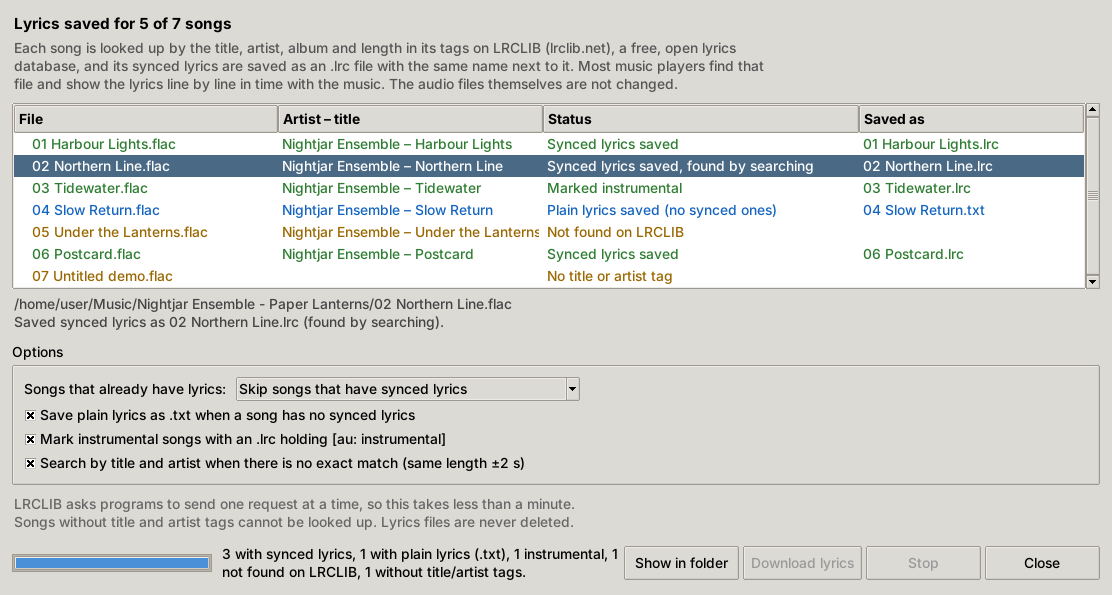
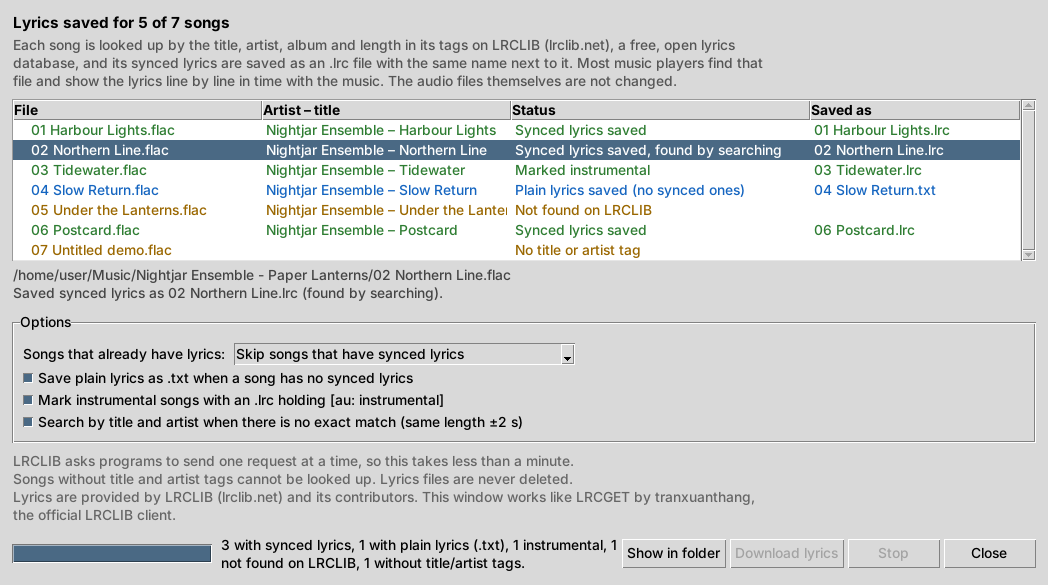
Credit LRCLIB and LRCGET for the lyrics feature
The lyrics come from LRCLIB and its contributors, and the feature follows
LRCGET's conventions. Both are by tranxuanthang under the MIT License
(LRCGET "Copyright (c) 2023 tranxuanthang", the LRCLIB server "Copyright (c)
2024 tranxuanthang", as their LICENSE files say). They are now credited:

- in both apps: the last line of the lyrics window's note (lyrics.CREDIT)
  and Help > About (lyrics.ABOUT_CREDIT), with the same texts in the Rust
  version;
- in a Credits section of the README inside every package (Python and
  Rust), the README's Acknowledgements and the 1.12.0 release notes;
- in the headers of realhires/lyrics.py and rust/crates/core/src/lyrics.rs,
  which also say that the code is our own and contains none of theirs.

test_lrclib_and_lrcget_are_credited keeps all of these in place and the
Rust texts equal to the Python ones. docs/gui-lyrics.png shows the new line.

Claude-Session: https://claude.ai/code/session_013PCXirMy853Swzuii5oTRZ

Changed region(s): [[0.0, 0.0308, 1.0, 0.8923], [0.0, 0.8923, 1.0, 0.9846]]

diff --git a/tests/test_lyrics.py b/tests/test_lyrics.py
@@ -3,6 +3,7 @@
 import json
 import os
 import random
+import re
 import shutil
 import ssl
 import subprocess
@@ -294,6 +295,33 @@ def test_skip_rules(tmp_path):
     cfg.lyrics_existing = lyrics.EXISTING_CLI["replace"]
     assert lyrics.skip_reason(str(song), cfg) == ""
     assert lyrics.read_lyrics_file(str(song))[0] == lyrics.INSTRUMENTAL
+
+
+def test_lrclib_and_lrcget_are_credited():
+    """The user asked for the lyrics code to be credited: LRCLIB and LRCGET (both MIT, by tranxuanthang)
+    are named in both apps (lyrics window, About box), the packaged READMEs, the README and the
+    release notes, and the Rust version shows the same texts."""
+    root = Path(__file__).resolve().parent.parent
+    for name in ("README.md", "packaging/README-RELEASE.txt", "packaging/README-RUST.txt"):
+        text = (root / name).read_text(encoding="utf-8")
+        for needed in ("lrclib.net", "github.com/tranxuanthang/lrcget", "Copyright (c) 2023 tranxuanthang",
+                       "Copyright (c) 2024 tranxuanthang", "MIT License"):
+            assert needed in text, f"{name} lacks {needed!r}"
+    notes = (root / "packaging" / "RELEASE_NOTES.md").read_text(encoding="utf-8")
+    assert "LRCGET by tranxuanthang" in notes and "MIT-licensed" in notes
+    assert "LRCLIB" in lyrics.CREDIT and "LRCGET by tranxuanthang" in lyrics.CREDIT
+    assert "LRCGET by tranxuanthang (MIT License)" in lyrics.ABOUT_CREDIT
+    rust = (root / "rust" / "crates" / "core" / "src" / "lyrics.rs").read_text(encoding="utf-8")
+
+    def rust_const(name):
+        m = re.search(r'pub const %s: &str = "((?:[^"\\]|\\.)*)";' % name, rust, re.S)
+        assert m, name
+        return re.sub(r"\\\n\s*", "", m.group(1))  # a backslash at a line end joins the lines
+
+    assert rust_const("CREDIT") == lyrics.CREDIT
+    assert rust_const("ABOUT_CREDIT") == lyrics.ABOUT_CREDIT
+    assert "CREDIT.into()" in (root / "rust" / "crates" / "gui" / "src" / "lyrics.rs").read_text(encoding="utf-8")
+    assert "ABOUT_CREDIT" in (root / "rust" / "crates" / "gui" / "src" / "app.rs").read_text(encoding="utf-8")
 
 
 # --------------------------------------------------------------------- GUI ---

diff --git a/rust/crates/core/src/lyrics.rs b/rust/crates/core/src/lyrics.rs
@@ -18,6 +18,15 @@
 //! Lyrics files are never deleted: an existing `.txt` stays when a synced
 //! `.lrc` is added next to it, and existing files are only overwritten when
 //! the user chose "Download again and replace them".
+//!
+//! Credits: the lyrics come from LRCLIB and its contributors, and this feature
+//! is modelled on LRCGET.  Both are by tranxuanthang and MIT-licensed (LRCGET:
+//! "Copyright (c) 2023 tranxuanthang", <https://github.com/tranxuanthang/lrcget>;
+//! the LRCLIB server: "Copyright (c) 2024 tranxuanthang",
+//! <https://github.com/tranxuanthang/lrclib>).  This module is a port of
+//! Real-Hi-Res's own `realhires/lyrics.py` and contains no code from either;
+//! it follows LRCGET's conventions and LRCLIB's published API.  [`CREDIT`] and
+//! [`ABOUT_CREDIT`] are shown in the desktop app.
 
 use std::collections::HashMap;
 use std::io::{Read, Write};
@@ -90,6 +99,13 @@ impl Status {
         matches!(self, Status::Synced | Status::Plain | Status::Instrumental)
     }
 }
+
+/// Shown in the lyrics window (the same text as the Python version's `CREDIT`).
+pub const CREDIT: &str = "Lyrics are provided by LRCLIB (lrclib.net) and its contributors. This window works like \
+                          LRCGET by tranxuanthang, the official LRCLIB client.";
+/// Shown in the About box (Python `ABOUT_CREDIT`).
+pub const ABOUT_CREDIT: &str = "Synced lyrics come from LRCLIB (lrclib.net) and its contributors. The lyrics feature \
+                                is modelled on LRCGET by tranxuanthang (MIT License), the official LRCLIB client.";
 
 pub const EXISTING_CHOICES: [&str; 3] =
     ["Skip songs that have synced lyrics", "Skip songs that have any lyrics", "Download again and replace them"];

diff --git a/realhires/lyrics.py b/realhires/lyrics.py
@@ -18,6 +18,15 @@ installed or bundled.
 Lyrics files are never deleted: an existing ``.txt`` stays when a synced
 ``.lrc`` is added next to it, and existing files are only overwritten when the
 user chose "Download again and replace them".
+
+Credits: the lyrics come from LRCLIB and its contributors, and this feature is
+modelled on LRCGET.  Both are by tranxuanthang and MIT-licensed (LRCGET:
+"Copyright (c) 2023 tranxuanthang", https://github.com/tranxuanthang/lrcget;
+the LRCLIB server: "Copyright (c) 2024 tranxuanthang",
+https://github.com/tranxuanthang/lrclib).  This module was written for
+Real-Hi-Res and contains no code from either; it follows LRCGET's conventions
+and LRCLIB's published API.  CREDIT and ABOUT_CREDIT are shown in the desktop
+app (the lyrics window and the About box).
 """
 
 from __future__ import annotations
@@ -68,6 +77,12 @@ STATUS_LABEL = {
     FAILED: "Failed",
 }
 SAVED_STATUSES = (SYNCED, PLAIN, INSTRUMENTAL)
+
+# Shown in the lyrics window and the About box (the Rust version shows the same texts).
+CREDIT = ("Lyrics are provided by LRCLIB (lrclib.net) and its contributors. This window works like LRCGET "
+          "by tranxuanthang, the official LRCLIB client.")
+ABOUT_CREDIT = ("Synced lyrics come from LRCLIB (lrclib.net) and its contributors. The lyrics feature is modelled "
+                "on LRCGET by tranxuanthang (MIT License), the official LRCLIB client.")
 
 EXISTING_CHOICES = ["Skip songs that have synced lyrics", "Skip songs that have any lyrics",
                     "Download again and replace them"]

diff --git a/realhires/gui.py b/realhires/gui.py
@@ -1119,6 +1119,7 @@ class LyricsDialog(tk.Toplevel):
                          f"{'is' if one else 'are'} skipped (listed last, in grey); choose 'Download again and "
                          "replace them' to look them up again.")
         lines.append("Songs without title and artist tags cannot be looked up. Lyrics files are never deleted.")
+        lines.append(lyrics_mod.CREDIT)
         self.note.configure(text="\n".join(lines))
         self.start_btn.configure(state="normal" if n else "disabled")
         self.pb.configure(maximum=max(n, 1), value=0)
@@ -2946,6 +2947,7 @@ class App(ttk.Frame):
             "About Real-Hi-Res",
             f"Real-Hi-Res {__version__}\n\nFinds fake hi-res audio (upsampled or 16-bit padded) and fake "
             "lossless files (FLAC/WAV/ALAC made from MP3/AAC) by analysing the audio itself.\n\n"
+            f"{lyrics_mod.ABOUT_CREDIT}\n\n"
             "https://github.com/SU2H1/Real-Hi-Res")
 
     def quit_app(self) -> None:

diff --git a/rust/crates/gui/src/app.rs b/rust/crates/gui/src/app.rs
@@ -1428,6 +1428,11 @@ impl App {
                 ui.heading(format!("Real-Hi-Res {}", realhires::VERSION));
                 ui.label("Finds fake hi-res audio (upsampled or 16-bit padded) and fake lossless files made from MP3/AAC, by analysing the decoded audio itself.");
                 ui.label("This is the Rust version; it shares its settings and saved results with the Python version.");
+                ui.label(realhires::lyrics::ABOUT_CREDIT);
+                ui.horizontal_wrapped(|ui| {
+                    ui.hyperlink_to("LRCLIB", "https://lrclib.net");
+                    ui.hyperlink_to("LRCGET", "https://github.com/tranxuanthang/lrcget");
+                });
                 ui.hyperlink("https://github.com/SU2H1/Real-Hi-Res");
             });
             self.about = open;

diff --git a/rust/crates/gui/src/lyrics.rs b/rust/crates/gui/src/lyrics.rs
@@ -13,7 +13,7 @@ use egui::{Align2, Color32, FontId, RichText, TextFormat, Vec2};
 use realhires::eta::{fmt_about, ScanEta};
 use realhires::lyrics::{
     default_interval, existing_lyrics, lyrics_summary, read_lyrics_file, short_skip, short_status, sidecar,
-    skip_reason, splitlines, LyricsOutcome, Status, EXISTING_CHOICES,
+    skip_reason, splitlines, LyricsOutcome, Status, CREDIT, EXISTING_CHOICES,
 };
 use realhires::paths::file_name;
 use realhires::probe::tag;
@@ -218,6 +218,7 @@ impl LyricsWindow {
             ));
         }
         lines.push("Songs without title and artist tags cannot be looked up. Lyrics files are never deleted.".into());
+        lines.push(CREDIT.into());
         self.note = lines.join("\n");
         self.status.clear();
     }

diff --git a/CLAUDE.md b/CLAUDE.md
@@ -139,10 +139,12 @@ Candidate source rates are limited to `rate * 1.5 <= file_rate`, so a 96 kHz fil
 - LRCLIB (`lyrics.py`) is a free service with published rules for programs, and the user's IP can be banned if they are broken: send its requests one at a time (one `LrclibClient` per run, one `LyricsDialog` at a time, never a thread pool), keep `MIN_INTERVAL_S` and `MIN_GAP_S`, always honour `Retry-After`, and name the program in the User-Agent. Never send LRCGET's `Lrclib-App-Id`; Real-Hi-Res could register its own. Send only the tags and length of a song, never its path or file name.
 - The lyrics feature must never change audio files or delete lyrics files; it only writes `<name>.lrc`/`<name>.txt` through a temp file. Keep LRCGET's conventions (`.lrc` for synced lyrics, `.txt` for plain ones, `[au: instrumental]`) so files are shared with LRCGET.
 - Tests must never contact lrclib.net: use `FakeLrclib` (and the `lrclib` fixture). Only the release smoke test asks lrclib.net once, and only certificate failures may fail it.
+- Credits for the lyrics feature (the user asked for them, 2026-11-24): LRCLIB (the lyrics and their contributors) and LRCGET (whose conventions the feature follows), both MIT-licensed by tranxuanthang (LRCGET "Copyright (c) 2023 tranxuanthang", the LRCLIB server "Copyright (c) 2024 tranxuanthang"). They are named in the README's Acknowledgements, the Credits section of `packaging/README-RELEASE.txt` and `README-RUST.txt`, the release notes, the module headers of `realhires/lyrics.py` and `rust/crates/core/src/lyrics.rs`, and in both apps: `lyrics.CREDIT` as the last line of the lyrics window's note and `lyrics.ABOUT_CREDIT` in Help → About (the Rust constants must stay equal). `test_lrclib_and_lrcget_are_credited` checks all of this; keep it passing, and keep "no code from either" true (the lyrics code is our own, written against LRCLIB's published API).
 - Do not use emoji in Tk widget text. Several Linux fonts cannot render them (the folder glyph showed as a box).
 
 ## Changelog
 
+- 1.12.0 (2026-11-24): the user asked to credit the lyrics code. LRCLIB and LRCGET (MIT, tranxuanthang; licences checked on their GitHub pages) are credited in the README (Acknowledgements), a Credits section of both packaged READMEs, the release notes, both lyrics module headers, and in both apps (`lyrics.CREDIT` in the lyrics window, `lyrics.ABOUT_CREDIT` in Help → About), guarded by `test_lrclib_and_lrcget_are_credited`; `docs/gui-lyrics.png` was retaken with the credit line. The first release run of 1.12.0 (from the merge of PR #1) was cancelled during its antivirus scan, before anything was published, so that the published packages carry the credits.
 - 1.12.0 (2026-11-24): the user chose to put everything into one 1.12.0 release: the branches `claude/blissful-mccarthy-l69dne` (the pop-up after fixing, the After fix column and `fix_advice()`) and `claude/gallant-darwin-x1yv8z` (synced lyrics from LRCLIB, PR #2) were merged into the Rust branch, and all of it was ported to the Rust version in the same release: `fix::fix_outlook()`/`fix_advice()`/`done_summary()`/`fmt_bytes()` and `FixOutcome.how`, the advice line of `report::row()` (which now takes the settings), `eta::fmt_about()`, the Lyrics settings, a new core module `lyrics` (see the `rust/` row) with `pyunicode`, the CLI's `--lyrics`, `--lyrics-only`, `--lyrics-existing`, `--check-lyrics-server` and the lyrics `--dry-run` (Ctrl+C stops after the current song through `ctrlc`, a second one quits), and in the desktop app the After fix column and fact, the advice in the details, `FixDoneWindow`, the hidden Fix window, `LyricsWindow`, the Lyrics tab, the Get lyrics… button, Ctrl/Cmd+L and the menu entries. New parity tests compare the `-v` output and lyrics downloads of both versions, the Rust GUI test covers the new parts with a small fake LRCLIB, and `docs/rust-gui.png` was retaken with the After fix column.
 - 1.12.0 (2026-11-24): Synced lyrics from LRCLIB, as the user asked ("Implement sync lyric function to Real-Hi-Res", pointing at LRCGET). New `realhires/lyrics.py` looks each song up by its tags and length (`/api/get`, then `/api/search` with strict title/artist/±2 s matching) and saves `<name>.lrc` (synced), `<name>.txt` (plain only) or an `[au: instrumental]` mark next to it, following LRCGET's conventions and LRCLIB's rules for programs (sequential requests, at most about 85 per minute, Retry-After, User-Agent). The desktop app gained the Download synced lyrics window (`LyricsDialog`; Edit menu, Ctrl/Cmd+L, the dashboard's Get lyrics… button, the context menu) and a Lyrics tab in the dashboard; the CLI gained `--lyrics`, `--lyrics-only`, `--lyrics-existing`, `--check-lyrics-server`, and `--dry-run` for lyrics; Settings gained the Lyrics tab (`lyrics_existing`, `lyrics_plain`, `lyrics_instrumental`, `lyrics_search`, `lyrics_server`). `lyrics.ssl_context()` falls back to the system's CA bundle when the frozen OpenSSL finds none (without it, HTTPS failed with CERTIFICATE_VERIFY_FAILED in a simulation of that case), and the smoke test now downloads lyrics from a fake LRCLIB and checks lrclib.net's certificate. `eta.fmt_about()` was split out of `fmt_left()`. Drop-downs in the Settings window are now as wide as their longest choice (`SettingsDialog._widget()`; the Fixing tab cut its choices off too). New `tests/test_lyrics.py`, `docs/gui-lyrics.png` and `docs/gui-lyrics-tab.png`. No detection change, so `DETECTOR_VERSION` stays 1.
 - 1.12.0 (2026-11-24): A pop-up when fixing has finished (the user asked for one): `FixDoneDialog` in the GUI, text from the new `fix.done_summary()` (fixed and failed counts, size saved, exact and gapless counts, where the originals went, re-check verdicts, files left alone), with Show in folder. It is not modal, because a deferred modal box blocks the whole window on macOS. Closing the Fix window while it works now hides it until the files are done, so the list is still updated and the pop-up still appears (before, closing stopped the updates). New `docs/gui-fix-done.png`, `test_fix_done_summary_for_the_pop_up`, and a pop-up check in the GUI test. The user asked why some files were still fake after fixing and re-scanning, and whether the app should not explain that: the details of every fake file (GUI, CLI `-v`) now end with `fix.fix_advice()`, which says what Fix does with it and whether it stays marked fake (lossy-sourced files at any resolution, files whose rate had to be kept), and the pop-up says the same of the fixed files that are still fake. The user then asked to see it on the song itself, next to the bandwidth: the list gained the "After fix" column after Bandwidth and the facts an "After fix" line (`fix.fix_outlook()`, sharing `_prospect()` with `fix_advice()`), and `docs/gui-screenshot.png` was retaken. A CSV check in `test_cli_scan_with_exports` had slipped into a comment and runs again.

diff --git a/README.md b/README.md
@@ -164,7 +164,7 @@ Settings are saved and used again the next time you start the app, and by the co
 
 ### Synced lyrics (LRCLIB)
 
-Real-Hi-Res can also download synced lyrics for your songs, the way [LRCGET](https://github.com/tranxuanthang/lrcget) does. Select songs in the list and click **Get lyrics…** in the dashboard (or press **Ctrl+L**, **Cmd+L** on a Mac, or use the right-click menu), or choose **Edit → Download synced lyrics for all songs…** for every song you have added. You do not need to scan first. Each song is looked up on [LRCLIB](https://lrclib.net), a free and open lyrics database, by the title, artist, album and length in its tags, and its synced lyrics are saved as an `.lrc` file with the same name next to it, so `01 Song.flac` gets `01 Song.lrc`. Many music players and lyrics plug-ins find such a file and show the lyrics line by line in time with the music. The audio files themselves are never changed.
+Real-Hi-Res can also download synced lyrics for your songs, the way [LRCGET](https://github.com/tranxuanthang/lrcget) does (see [Acknowledgements](#acknowledgements) for the credits). Select songs in the list and click **Get lyrics…** in the dashboard (or press **Ctrl+L**, **Cmd+L** on a Mac, or use the right-click menu), or choose **Edit → Download synced lyrics for all songs…** for every song you have added. You do not need to scan first. Each song is looked up on [LRCLIB](https://lrclib.net), a free and open lyrics database, by the title, artist, album and length in its tags, and its synced lyrics are saved as an `.lrc` file with the same name next to it, so `01 Song.flac` gets `01 Song.lrc`. Many music players and lyrics plug-ins find such a file and show the lyrics line by line in time with the music. The audio files themselves are never changed.
 
 ![Download synced lyrics window after a run: synced lyrics saved for three songs (one found by searching), plain lyrics saved as .txt for one, one song marked instrumental, one not found and one without tags](docs/gui-lyrics.png)
 
@@ -452,7 +452,7 @@ The project layout is documented in [CLAUDE.md](CLAUDE.md).
 
 ## Acknowledgements
 
-Lyrics come from [LRCLIB](https://lrclib.net), a free and open lyrics database. The lyrics feature follows [LRCGET](https://github.com/tranxuanthang/lrcget) by tranxuanthang (MIT License), the official LRCLIB client, in how songs are looked up and how lyrics files are named and marked; no LRCGET code is used.
+**Synced lyrics.** The lyrics come from [LRCLIB](https://lrclib.net), a free and open lyrics database, and from the people who contribute lyrics to it. The lyrics feature is modelled on [LRCGET](https://github.com/tranxuanthang/lrcget), the official LRCLIB client: it looks songs up, matches them and names and marks lyrics files (`.lrc`, `.txt`, `[au: instrumental]`) the way LRCGET does, so the two programs understand each other's files. LRCGET and the [LRCLIB server](https://github.com/tranxuanthang/lrclib) are both made by tranxuanthang and released under the MIT License (LRCGET: "Copyright (c) 2023 tranxuanthang"; the LRCLIB server: "Copyright (c) 2024 tranxuanthang"). Real-Hi-Res's own lyrics code, in the Python version (`realhires/lyrics.py`) and in the Rust version (`rust/crates/core/src/lyrics.rs`), was written for Real-Hi-Res and contains no code from either project; it uses LRCLIB's published API and names itself in every request, as LRCLIB asks. Both desktop apps credit LRCLIB and LRCGET in their lyrics window and in Help → About. Thank you to tranxuanthang and to everyone who contributes lyrics to LRCLIB.
 
 ## License
 

diff --git a/packaging/RELEASE_NOTES.md b/packaging/RELEASE_NOTES.md
@@ -1,6 +1,6 @@
 ## What's new in 1.12.0
 
-Real-Hi-Res can now download **synced lyrics** for your songs from [LRCLIB](https://lrclib.net), a free and open lyrics database, the way [LRCGET](https://github.com/tranxuanthang/lrcget) does. Select songs and click **Get lyrics…** (or press Ctrl+L, Cmd+L on a Mac), or choose **Edit → Download synced lyrics for all songs…**; no scan is needed. Each song is looked up by the title, artist, album and length in its tags, and its synced lyrics are saved as an `.lrc` file with the same name next to it, which many music players show line by line in time with the music. Songs that LRCLIB only has plain lyrics for get a `.txt`, instrumental songs are marked, and songs that already have an `.lrc` are skipped, so a second run over a whole library only looks up the songs still missing lyrics. When there is no exact match, a search by title and artist accepts only a song with the same title, artist and length (within 2 seconds), which finds songs whose album is named differently. The audio files are never changed, and only the tags and length of each song are sent to lrclib.net.
+Real-Hi-Res can now download **synced lyrics** for your songs from [LRCLIB](https://lrclib.net), a free and open lyrics database, the way [LRCGET](https://github.com/tranxuanthang/lrcget) does. Select songs and click **Get lyrics…** (or press Ctrl+L, Cmd+L on a Mac), or choose **Edit → Download synced lyrics for all songs…**; no scan is needed. Each song is looked up by the title, artist, album and length in its tags, and its synced lyrics are saved as an `.lrc` file with the same name next to it, which many music players show line by line in time with the music. Songs that LRCLIB only has plain lyrics for get a `.txt`, instrumental songs are marked, and songs that already have an `.lrc` are skipped, so a second run over a whole library only looks up the songs still missing lyrics. When there is no exact match, a search by title and artist accepts only a song with the same title, artist and length (within 2 seconds), which finds songs whose album is named differently. The audio files are never changed, and only the tags and length of each song are sent to lrclib.net. The lyrics are provided by LRCLIB and the people who contribute to it, and the feature is modelled on LRCGET by tranxuanthang, who also makes LRCLIB; both are MIT-licensed, and Real-Hi-Res's own lyrics code contains no code from either. Both apps credit them in the lyrics window and in Help → About. Thank you to them.
 
 The new **Lyrics** tab of the dashboard shows the lyrics of the selected song. Settings has a new **Lyrics** tab with the defaults. On the command line, `--lyrics-only` downloads lyrics without analysing the files, `--lyrics` does it after a scan, and `--check-lyrics-server` tests the connection. Requests are sent one at a time, as LRCLIB asks of programs, so a library of 1,000 songs without lyrics takes roughly 15 to 25 minutes; the window and the command line estimate the time left.
 
